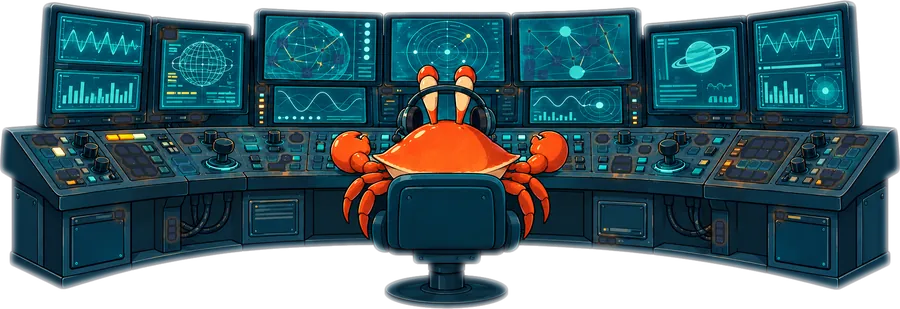
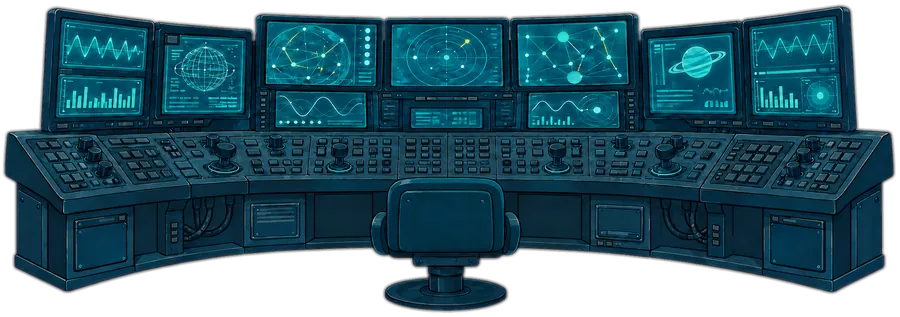
krab controller 2

diff --git a/web/krab-desk.js b/web/krab-desk.js
@@ -1,0 +1,144 @@
+// SPDX-License-Identifier: AGPL-3.0-or-later
+// SPDX-FileCopyrightText: 2026 NomDeTom
+// The controller krab's desk lights (style.css: .admin-art, .art-lamps). The desk in art/ is dark;
+// art/krab-controller-lit.webp is the same desk lit, and art/krab-controller-mask.webp marks the
+// lights (pink = the yellow ones, green = the blue ones). Each blob of the mask is one light; they
+// are shared out into groups, and each group shows the lit desk through its blobs, plus a soft
+// edge grown from them, with a blink pattern of its own. Built by make-krab-desk-v2.cjs (Tom's
+// notes, irate-box/2026-10-02-ui-improvements) from the layered picture; the first half of this
+// file is its krab-desk-lib.js.
+// Krab desk v2: turns the colour-mask layer into per-group light masks. Plain JS, DOM only in the
+// blink/glow/flutter animations, so the preview page and the hub's web/krab-desk.js inline it and
+// make-krab-desk-v2.cjs tests it in Node.
+const KD = (() => {
+  // mask pixels (RGBA, unpremultiplied) -> 0 none, 1 pink (255,0,255), 2 green (0,255,0)
+  function classify(rgba, n) {
+    const k = new Uint8Array(n);
+    for (let i = 0; i < n; i++) {
+      const r = rgba[i * 4], g = rgba[i * 4 + 1], b = rgba[i * 4 + 2], a = rgba[i * 4 + 3];
+      if (a < 128) continue;
+      if (r > 150 && b > 150 && g < 110) k[i] = 1;
+      else if (g > 150 && r < 110 && b < 110) k[i] = 2;
+    }
+    return k;
+  }
+  // 8-connected blobs of one colour: labels (0 = none, else blob index + 1) and each blob's kind
+  function blobs(kind, w, h) {
+    const labels = new Int32Array(w * h), list = [], stack = [];
+    for (let s = 0; s < w * h; s++) {
+      if (!kind[s] || labels[s]) continue;
+      const id = list.length + 1, k = kind[s];
+      let size = 0; labels[s] = id; stack.push(s);
+      while (stack.length) {
+        const p = stack.pop(); size++;
+        const x = p % w, y = (p / w) | 0;
+        for (let dy = -1; dy <= 1; dy++) for (let dx = -1; dx <= 1; dx++) {
+          const nx = x + dx, ny = y + dy;
+          if (nx < 0 || ny < 0 || nx >= w || ny >= h) continue;
+          const q = ny * w + nx;
+          if (kind[q] === k && !labels[q]) { labels[q] = id; stack.push(q); }
+        }
+      }
+      list.push({ id, kind: k, size });
+    }
+    return { labels, list };
+  }
+  function rng(seed) { // mulberry32
+    return () => { seed |= 0; seed = (seed + 0x6D2B79F5) | 0; let t = Math.imul(seed ^ (seed >>> 15), 1 | seed);
+      t = (t + Math.imul(t ^ (t >>> 7), 61 | t)) ^ t; return ((t ^ (t >>> 14)) >>> 0) / 4294967296; };
+  }
+  // Each blob joins one of nPink yellow-light groups or nGreen blue groups; returns a group per label
+  function assign(list, nPink, nGreen, seed) {
+    const r = rng(seed), g = new Int16Array(list.length + 1);
+    for (const b of list) g[b.id] = b.kind === 1 ? Math.floor(r() * nPink) : nPink + Math.floor(r() * nGreen);
+    return g;
+  }
+  // One group's mask: the blobs themselves (core, 0/255) and a soft halo grown out of them
+  function masks(labels, groupOf, group, w, h, radius) {
+    const core = new Uint8Array(w * h), f = new Float32Array(w * h);
+    for (let i = 0; i < w * h; i++) if (labels[i] && groupOf[labels[i]] === group) { core[i] = 255; f[i] = 1; }
+    const halo = blur(f, w, h, radius);
+    const out = new Uint8Array(w * h);
+    for (let i = 0; i < w * h; i++) out[i] = Math.min(255, Math.round(halo[i] * 255 * 2.2));
+    return { core, halo: out };
+  }
+  function blur(src, w, h, r) { // three box passes each way ~ a gaussian
+    let a = new Float32Array(src), b = new Float32Array(w * h);
+    const R = Math.max(1, Math.round(r / 1.7));
+    for (let pass = 0; pass < 3; pass++) {
+      for (let y = 0; y < h; y++) { let s = 0; const o = y * w;
+        for (let x = -R; x <= R; x++) s += a[o + Math.min(w - 1, Math.max(0, x))];
+        for (let x = 0; x < w; x++) { b[o + x] = s / (2 * R + 1);
+          s += a[o + Math.min(w - 1, x + R + 1)] - a[o + Math.max(0, x - R)]; } }
+      for (let x = 0; x < w; x++) { let s = 0;
+        for (let y = -R; y <= R; y++) s += b[Math.min(h - 1, Math.max(0, y)) * w + x];
+        for (let y = 0; y < h; y++) { a[y * w + x] = s / (2 * R + 1);
+          s += b[Math.min(h - 1, y + R + 1) * w + x] - b[Math.max(0, y - R) * w + x]; } }
+    }
+    return a;
+  }
+  // Blink patterns, as Web Animations on an element (the only DOM this file touches)
+  // A yellow light's pattern: 3-9 steps, on and off in random lengths, in one of three moods
+  // (mostly on, mostly off, even), over a cycle of 2.5-11 s that starts at a random point.
+  function blink(r, el) {
+    const mood = r(), n = 3 + Math.floor(r() * 7), dur = 2500 + r() * 8500;
+    let on = r() < .5, t = 0; const w = [], ks = [];
+    for (let i = 0; i < n; i++) { on = !on;
+      const base = mood < .33 ? (on ? 3 : .5) : mood < .66 ? (on ? .5 : 3) : 1.2;
+      w.push(base * (.3 + r() * 1.4)); }
+    const sum = w.reduce((a, b) => a + b, 0); on = r() < .5;
+    for (let i = 0; i < n; i++) { on = !on; ks.push({ offset: t, opacity: on ? 1 : 0, easing: 'step-end' }); t += w[i] / sum; }
+    ks.push({ offset: 1, opacity: ks[0].opacity });
+    el.animate(ks, { duration: dur, iterations: Infinity, delay: -r() * dur });
+  }
+  // A blue light: a slow glow up and down between a random dimmest and full, sometimes with a dip.
+  function glow(r, el) {
+    const dur = 3000 + r() * 6500, lo = .15 + r() * .35, dip = r() < .3;
+    const ks = [{ offset: 0, opacity: 1 }, { offset: .5, opacity: lo }, { offset: 1, opacity: 1 }];
+    if (dip) ks.splice(2, 0, { offset: .62 + r() * .1, opacity: Math.min(1, lo + .4) }, { offset: .72, opacity: lo + .05 });
+    el.animate(ks, { duration: dur, iterations: Infinity, easing: 'ease-in-out', delay: -r() * dur });
+  }
+  // The edge's flutter: 5-9 random brightnesses held for a moment each, a cycle of .5-1.6 s.
+  function flutter(r, el) {
+    const n = 5 + Math.floor(r() * 5), ks = [];
+    for (let i = 0; i < n; i++) ks.push({ offset: i / n, opacity: .2 + r() * .75, easing: 'step-end' });
+    ks.push({ offset: 1, opacity: ks[0].opacity });
+    el.animate(ks, { duration: 500 + r() * 1100, iterations: Infinity, delay: -r() * 1000 });
+  }
+  return { classify, blobs, assign, masks, rng, blink, glow, flutter };
+})();
+(() => {
+  const W = 900, H = 317, NP = 12, NG = 6, SEED = 11;
+  const here = document.currentScript && document.currentScript.src;
+  const art = document.querySelector('.admin-art'), host = art && art.querySelector('.art-lamps');
+  if (!here || !host || !document.createElement('canvas').getContext) return;
+  const still = !!(window.matchMedia && matchMedia('(prefers-reduced-motion: reduce)').matches);
+  const load = (name) => new Promise((ok, no) => { const i = new Image(); i.onload = () => ok(i); i.onerror = no;
+    i.src = new URL('art/krab-controller-' + name + '.webp', here).href; });
+  const pixels = (img) => { const c = document.createElement('canvas'); c.width = W; c.height = H;
+    const x = c.getContext('2d', { willReadFrequently: true }); x.drawImage(img, 0, 0, W, H); return x.getImageData(0, 0, W, H).data; };
+  const layer = (lit, alpha) => { const c = document.createElement('canvas'); c.width = W; c.height = H;
+    const id = new ImageData(new Uint8ClampedArray(lit), W, H), d = id.data;
+    for (let i = 0; i < W * H; i++) d[i * 4 + 3] = Math.min(d[i * 4 + 3], alpha[i]);
+    c.getContext('2d').putImageData(id, 0, 0); return c; };
+  async function build() {
+    const [lit, mask] = (await Promise.all([load('lit'), load('mask')])).map(pixels);
+    const kind = KD.classify(mask, W * H), { labels, list } = KD.blobs(kind, W, H);
+    const groupOf = KD.assign(list, NP, NG, SEED);
+    for (let g = 0; g < NP + NG; g++) {
+      const { core, halo } = KD.masks(labels, groupOf, g, W, H, 3);
+      const d = document.createElement('i'), h = layer(lit, halo);
+      d.append(h, layer(lit, core)); host.append(d);
+      if (still) continue;
+      const r = KD.rng(SEED * 1000 + g);
+      if (g < NP) { KD.blink(r, d); KD.flutter(r, h); } else { KD.glow(r, d); h.style.opacity = .7; }
+    }
+  }
+  // Only once the art is on show (it is hidden on most panes), and once.
+  let started = false;
+  const go = () => { if (started) return; started = true; build().catch(() => {}); };
+  if (window.IntersectionObserver) {
+    const io = new IntersectionObserver((e) => { if (e.some((x) => x.isIntersecting)) { io.disconnect(); go(); } });
+    io.observe(art);
+  } else go();
+})();

diff --git a/web/style.css b/web/style.css
@@ -708,35 +708,19 @@ body[data-art] > header, body[data-art] > section { position: relative; z-index:
 [data-art="librarian"] .admin-art { display: block; background-image: url("art/krab-librarian.webp"); aspect-ratio: 600 / 475; }
 [data-art="electronics"] .admin-art { display: block; background-image: url("art/krab-electronics.webp"); aspect-ratio: 520 / 550; }
 [data-art="controller"] .admin-art { display: block; background-image: url("art/krab-controller.webp");
-  width: min(46vw, 34rem); aspect-ratio: 900 / 309; opacity: 0.22; }
-/* The desk's lights: the picture has them all off (krab-controller.webp); each of ten groups,
-   lit, is one band of krab-controller-lamps.webp, laid exactly over it (--g picks the band).
-   Groups 0-5 are the yellow lights, which blink: some mostly on with a flicker off, some half
-   and half, some mostly off with a flash. Groups 6-9 are the blue buttons and screens, which
-   glow up and down. Made from Tom's marked copy of the picture (pink and green). */
-.art-lamps { display: none; position: absolute; inset: 0; }
-[data-art="controller"] .art-lamps { display: block; }
-.art-lamps i {
-  position: absolute; inset: 0; will-change: opacity;
-  background: url("art/krab-controller-lamps.webp") no-repeat 0 calc(var(--g) * 100% / 9) / 100% 1000%;
-}
-.art-lamps i:nth-child(-n+6) { filter: drop-shadow(0 0 2px rgba(255, 190, 70, 0.85)); }
-.art-lamps i:nth-child(1) { animation: lamp-flick 3.1s steps(1, end) infinite; }
-.art-lamps i:nth-child(2) { animation: lamp-half 1.7s steps(1, end) -0.4s infinite; }
-.art-lamps i:nth-child(3) { animation: lamp-flash 2.6s steps(1, end) -1.1s infinite; }
-.art-lamps i:nth-child(4) { animation: lamp-flick 4.3s steps(1, end) -1.2s infinite; }
-.art-lamps i:nth-child(5) { animation: lamp-half 2.9s steps(1, end) -0.7s infinite; }
-.art-lamps i:nth-child(6) { animation: lamp-flash 1.9s steps(1, end) -1.5s infinite; }
-.art-lamps i:nth-child(7) { animation: lamp-glow 3.5s ease-in-out infinite; }
-.art-lamps i:nth-child(8) { animation: lamp-glow 5s ease-in-out -2s infinite; }
-.art-lamps i:nth-child(9) { animation: lamp-glow 6.5s ease-in-out -4s infinite; }
-.art-lamps i:nth-child(10) { animation: lamp-glow 4.2s ease-in-out -1s infinite; }
-@keyframes lamp-flick { 0% { opacity: 1; } 88% { opacity: 0; } }
-@keyframes lamp-half { 0% { opacity: 1; } 50% { opacity: 0; } }
-@keyframes lamp-flash { 0% { opacity: 0; } 78% { opacity: 1; } }
-@keyframes lamp-glow { 0%, 100% { opacity: 1; } 50% { opacity: 0.25; } }
-/* No motion asked for: every light on, as in the picture. */
-@media (prefers-reduced-motion: reduce) { .art-lamps i { animation: none; opacity: 1; } }
+  width: min(46vw, 34rem); aspect-ratio: 900 / 317; opacity: 0.22; }
+/* The desk's lights: the picture above is the desk dark (krab-controller.webp). krab-desk.js reads
+   the colour mask (krab-controller-mask.webp; each blob is one light, pink the yellow ones, green
+   the blue ones), shares the blobs out into groups, and adds each group as an <i> in .art-lamps:
+   the lit desk (krab-controller-lit.webp) seen through the group's blobs, and a soft edge
+   grown from them (the first canvas) that flutters on its own. The yellow groups blink in
+   patterns of their own; the blue ones glow up and down. The crab is over them all. */
+.art-lamps, .art-krab { display: none; position: absolute; inset: 0; }
+[data-art="controller"] .art-lamps, [data-art="controller"] .art-krab { display: block; }
+.art-lamps i, .art-lamps canvas { position: absolute; inset: 0; width: 100%; height: 100%; }
+.art-lamps i { will-change: opacity; }
+.art-krab { background: url("art/krab-controller-krab.webp") no-repeat center / contain; }
+/* No motion asked for: krab-desk.js leaves every light on, as in the picture. */
 @media (max-width: 760px) {
   .admin-art { width: 45vw; opacity: 0.12; }
   [data-art="controller"] .admin-art { width: 70vw; opacity: 0.16; }

diff --git a/web/admin.html b/web/admin.html
@@ -57,8 +57,8 @@
 
     <main class="admin-main">
       <!-- Background art by side-bar group (admin.js sets data-art on main). The controller's
-           desk lights come in ten groups, each a layer of art/krab-controller-lamps.webp. -->
-      <div class="admin-art" aria-hidden="true"><span class="art-lamps"><i style="--g:0"></i><i style="--g:1"></i><i style="--g:2"></i><i style="--g:3"></i><i style="--g:4"></i><i style="--g:5"></i><i style="--g:6"></i><i style="--g:7"></i><i style="--g:8"></i><i style="--g:9"></i></span></div>
+           desk lights are made by krab-desk.js from art/krab-controller-lit.webp and -mask.webp. -->
+      <div class="admin-art" aria-hidden="true"><span class="art-lamps"></span><span class="art-krab"></span></div>
       <div class="helper-banner" id="helper-banner" role="alert" hidden>
         <strong>The box's root helper is not answering.</strong>
         <span id="helper-banner-detail"></span>
@@ -744,6 +744,8 @@
   </div>
 
   <script src="/hub.js"></script>
+
+  <script src="/krab-desk.js"></script>
   <script src="/admin.js"></script>
 </body>
 </html>

diff --git a/web/services.html b/web/services.html
@@ -37,8 +37,9 @@
   </section>
 
   <!-- The controller at its desk, as on /admin's Box and System panes (style.css). -->
-  <div class="admin-art" aria-hidden="true"><span class="art-lamps"><i style="--g:0"></i><i style="--g:1"></i><i style="--g:2"></i><i style="--g:3"></i><i style="--g:4"></i><i style="--g:5"></i><i style="--g:6"></i><i style="--g:7"></i><i style="--g:8"></i><i style="--g:9"></i></span></div>
+  <div class="admin-art" aria-hidden="true"><span class="art-lamps"></span><span class="art-krab"></span></div>
   <script src="hub.js"></script>
+  <script src="krab-desk.js"></script>
   <script src="services.js"></script>
 </body>
 </html>
